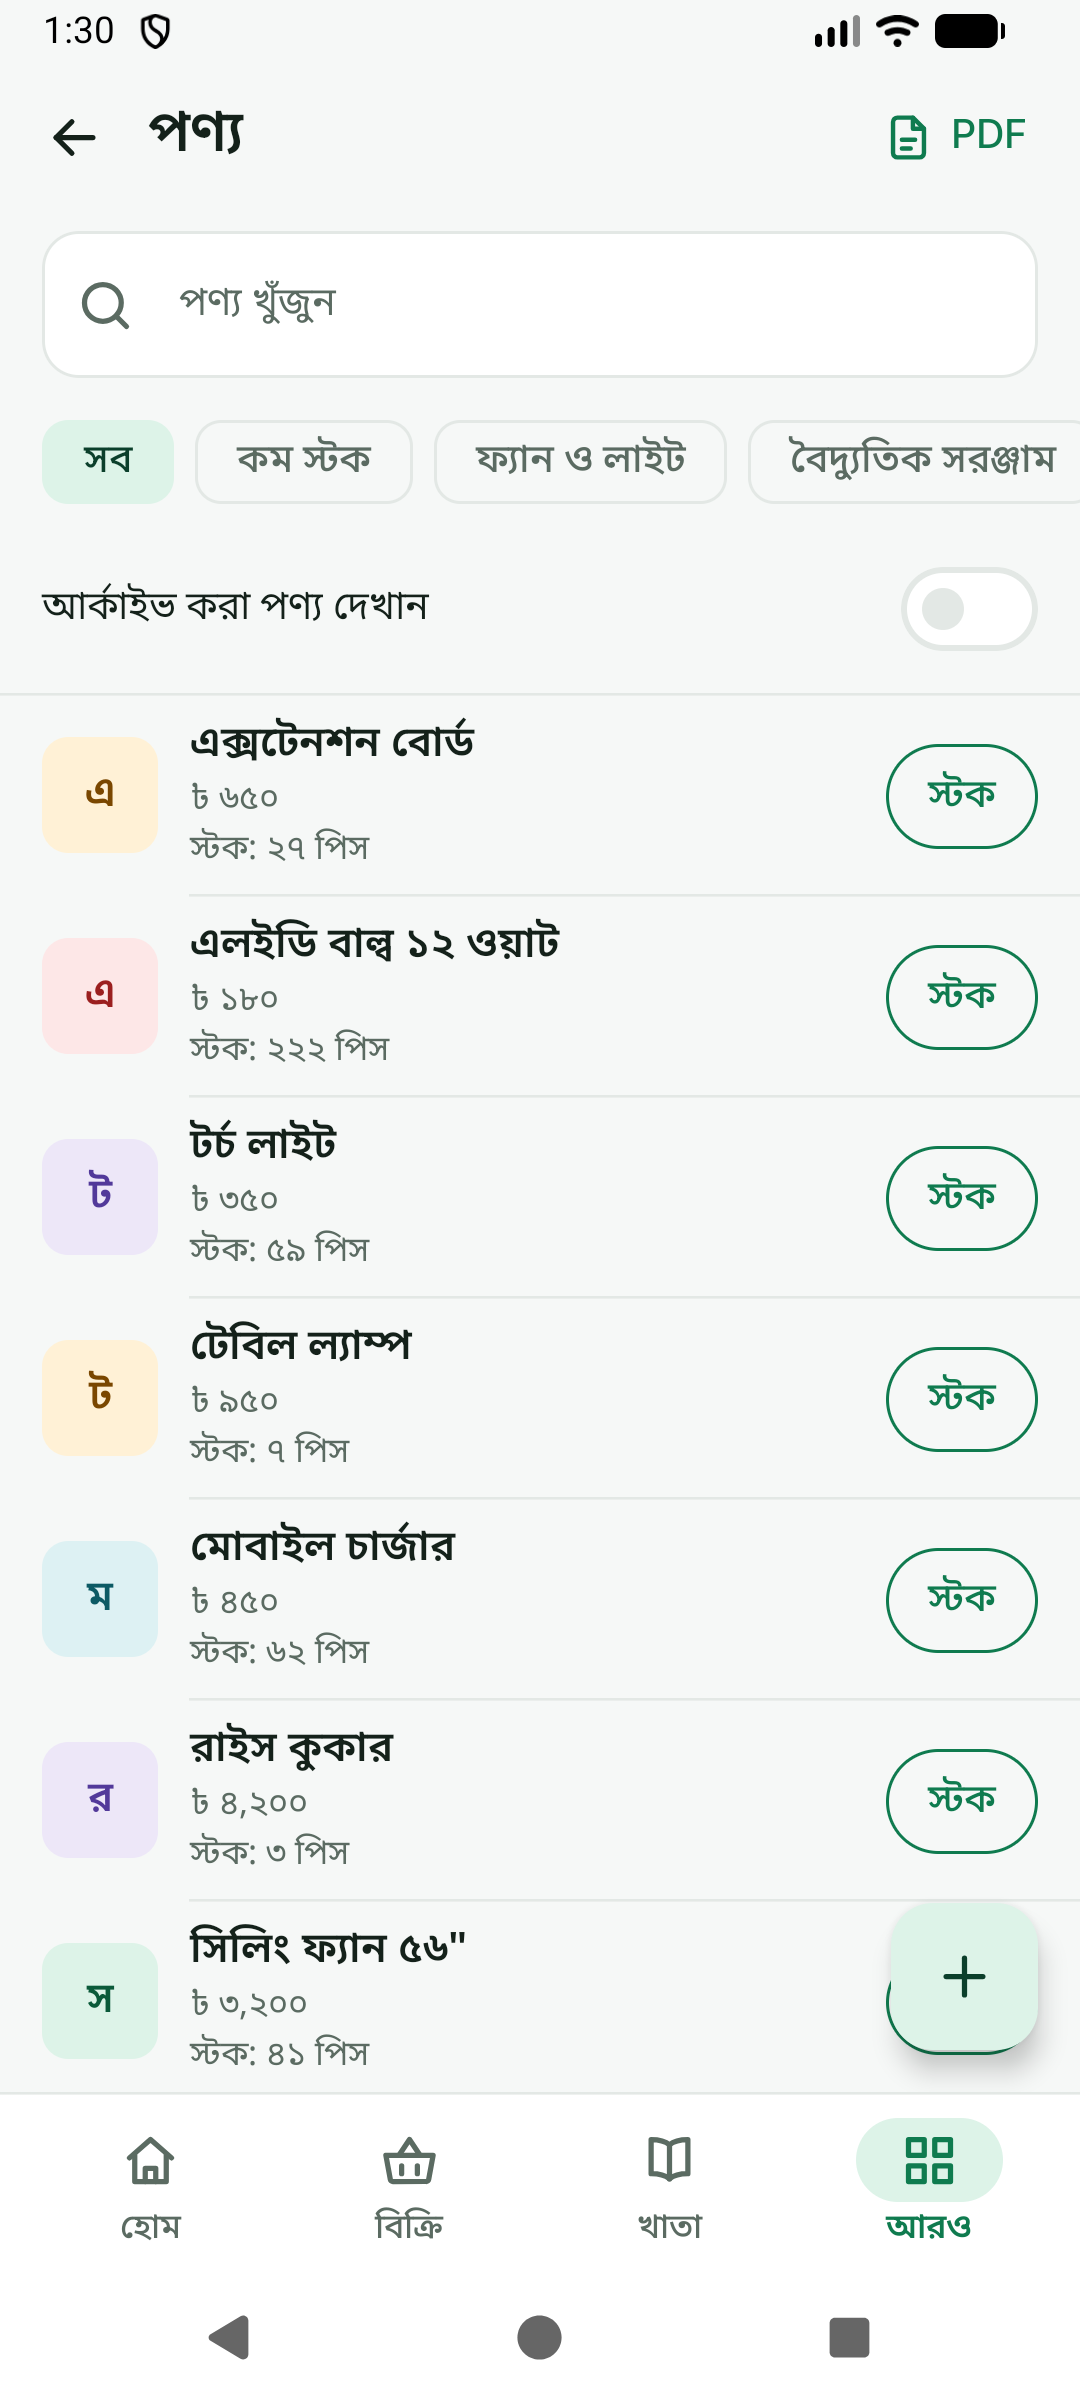
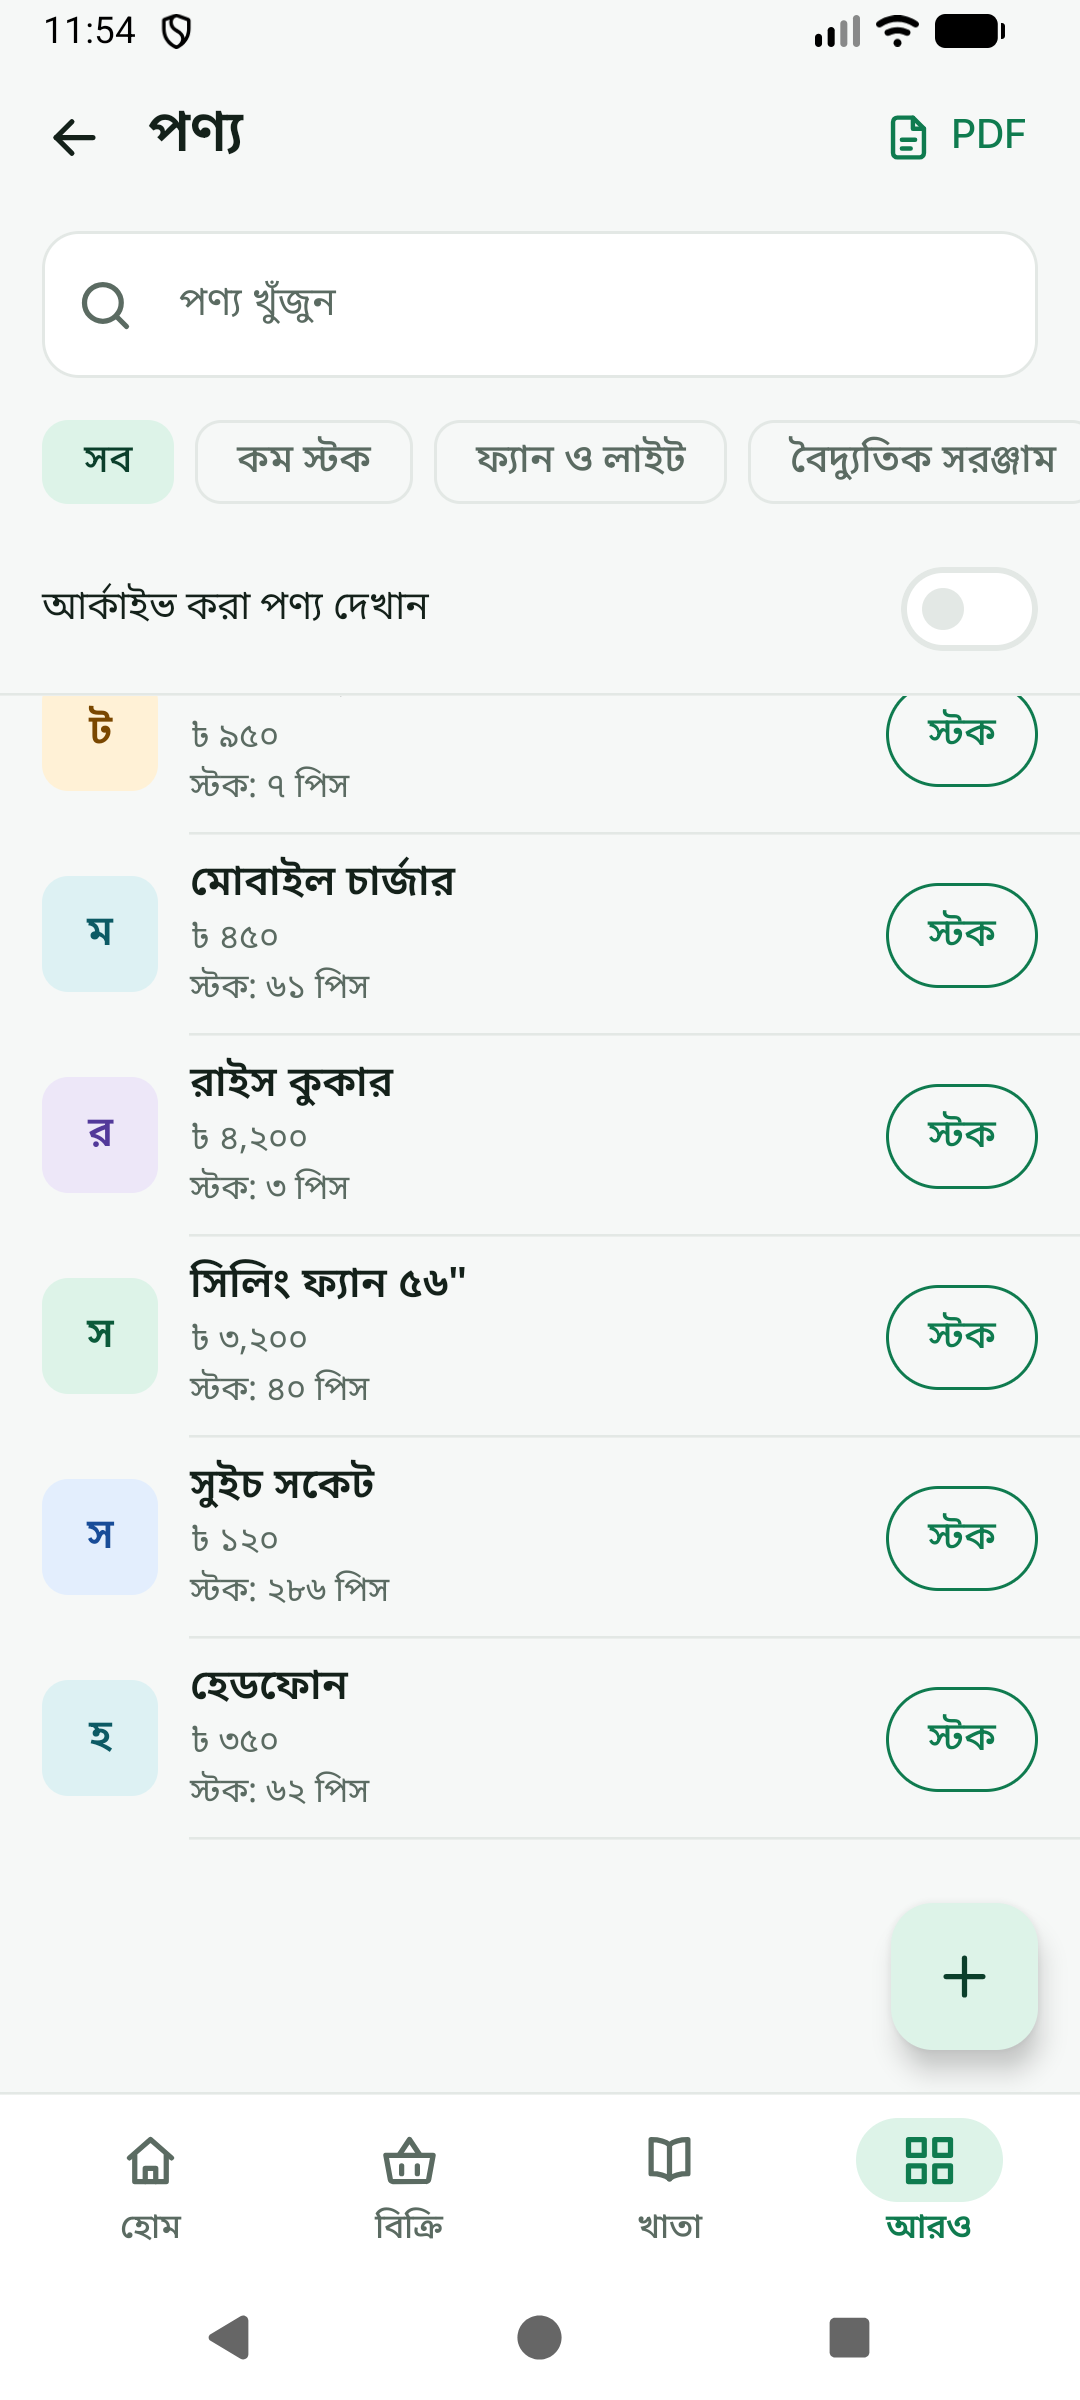
Retake Play screenshots 03 receipt, 04 products, 05 due book (en, bn); SPEC note

diff --git a/SPEC.md b/SPEC.md
@@ -1222,6 +1222,12 @@ message is shown instead of an empty PDF. The PDF is built on a background threa
 - **Fix found by the smoke test:** restoring a backup into a new shop whose work folder did not exist yet was
   refused as "not enough space" (free space was asked of a folder that is not made yet). `BackupEngine.freeSpace`
   now asks the nearest existing parent folder. Phone test: `ShopIsolationPhoneTest`.
+- **Polish after D2:** the lists that have a floating button (products, যোগাযোগ) end with `FabListBottomPadding`
+  (96 dp) so the last row scrolls fully clear of it. English quantities say "1 pc" / "1 litre" / "1 packet" and
+  "2 pcs" / "2 litres" / "2 packets" (`unit_*_one` strings, used for exactly 1; Bengali has one word for both) on the
+  Sell and product lists, stock screens, the cart's stock warning and the receipt text. The Due Book line under a
+  customer is "Last entry: 11 Nov 2026" / "সর্বশেষ লেনদেন: ১১ নভেম্বর ২০২৬" (it is the date of the newest ledger entry;
+  it used to say "Until ..."). The Play pictures 03, 04 and 05 were retaken.
 - **Older Android** (API 27 and 30 emulators, pictures in `docs/play/older-android/`): see `docs/LANGUAGE.md`,
   "Older Android".
 
